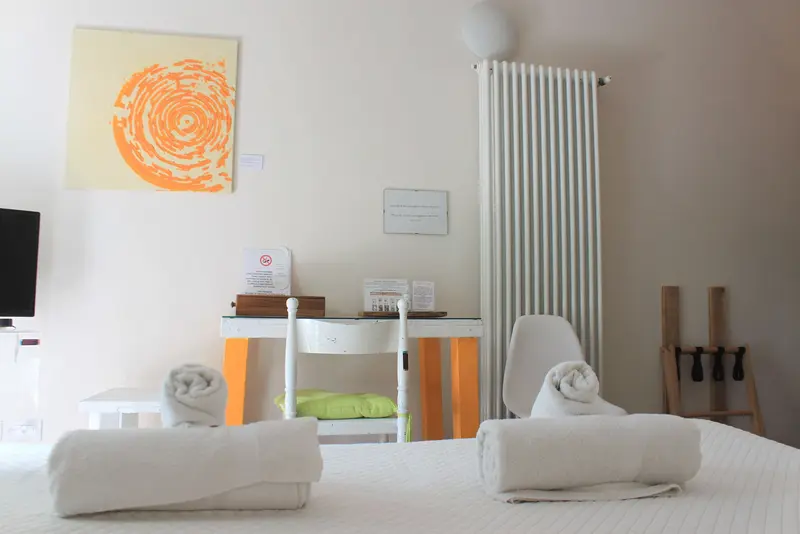
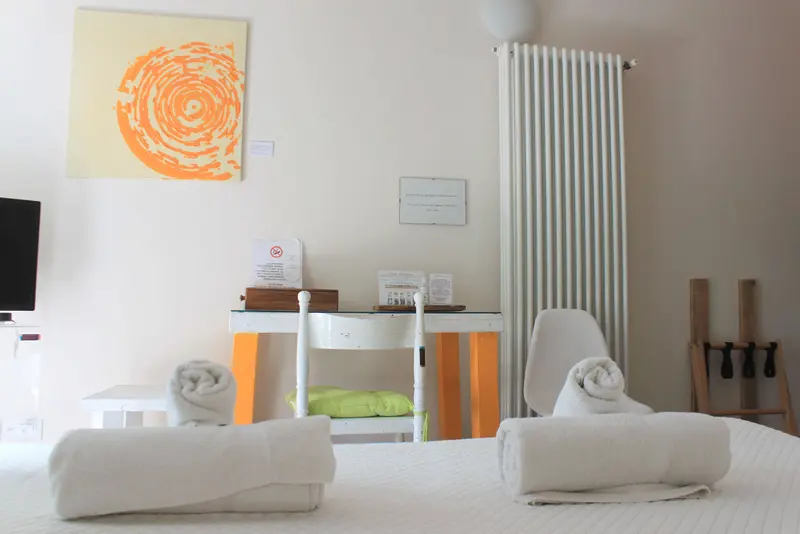
Foto aggiornata dal pannello: Camera Zucca

diff --git a/en/index.html b/en/index.html
@@ -1474,7 +1474,7 @@
         <article class="room room--d room--reverse">
           <div class="room__media">
             <div class="img-slot" data-room-img="right">
-              <img width="1400" height="934" src="../img/alloggi-zucca.webp?v=1786191591916" srcset="../img/alloggi-zucca-800.webp?v=1786191591916 800w, ../img/alloggi-zucca.webp?v=1786191591916 1400w" sizes="(max-width: 980px) 92vw, 705px" alt="The Zucca Room: authentic materials and handcrafted details" data-img-parallax loading="lazy" decoding="async" />
+              <img width="1400" height="934" src="../img/alloggi-zucca.webp?v=1786191637480" srcset="../img/alloggi-zucca-800.webp?v=1786191637480 800w, ../img/alloggi-zucca.webp?v=1786191637480 1400w" sizes="(max-width: 980px) 92vw, 705px" alt="The Zucca Room: authentic materials and handcrafted details" data-img-parallax loading="lazy" decoding="async" />
             </div>
           </div>
           <div class="room__text" data-room-text>

diff --git a/index.html b/index.html
@@ -1473,7 +1473,7 @@
         <article class="room room--d room--reverse">
           <div class="room__media">
             <div class="img-slot" data-room-img="right">
-              <img width="1400" height="934" src="img/alloggi-zucca.webp?v=1786191591916" srcset="img/alloggi-zucca-800.webp?v=1786191591916 800w, img/alloggi-zucca.webp?v=1786191591916 1400w" sizes="(max-width: 980px) 92vw, 705px" alt="La Camera Zucca: materiali autentici e dettagli artigianali" data-img-parallax loading="lazy" decoding="async" />
+              <img width="1400" height="934" src="img/alloggi-zucca.webp?v=1786191637480" srcset="img/alloggi-zucca-800.webp?v=1786191637480 800w, img/alloggi-zucca.webp?v=1786191637480 1400w" sizes="(max-width: 980px) 92vw, 705px" alt="La Camera Zucca: materiali autentici e dettagli artigianali" data-img-parallax loading="lazy" decoding="async" />
             </div>
           </div>
           <div class="room__text" data-room-text>
